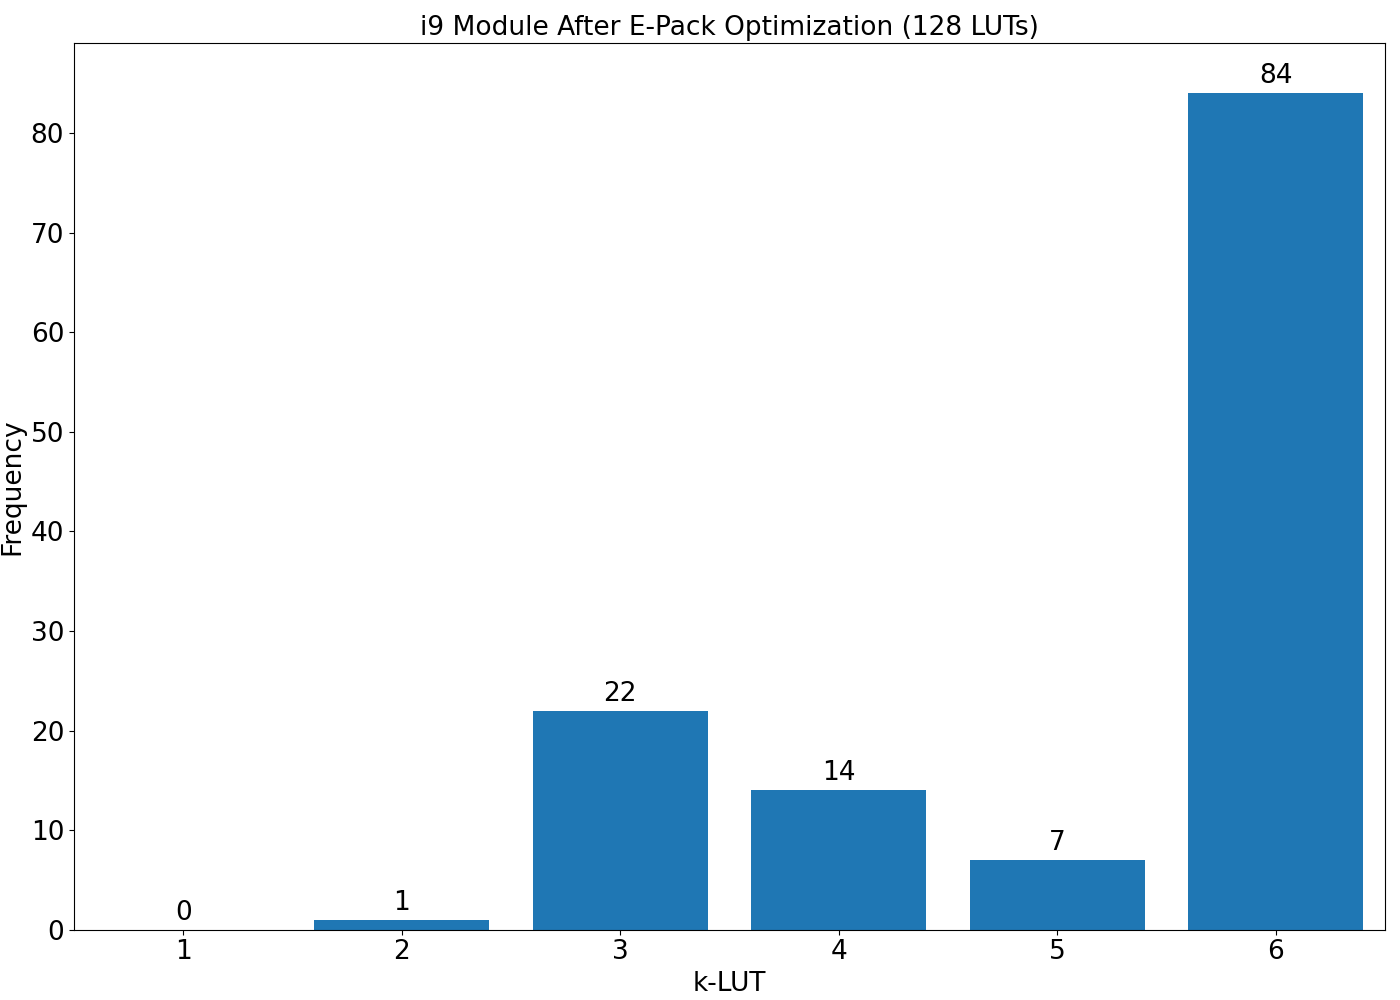
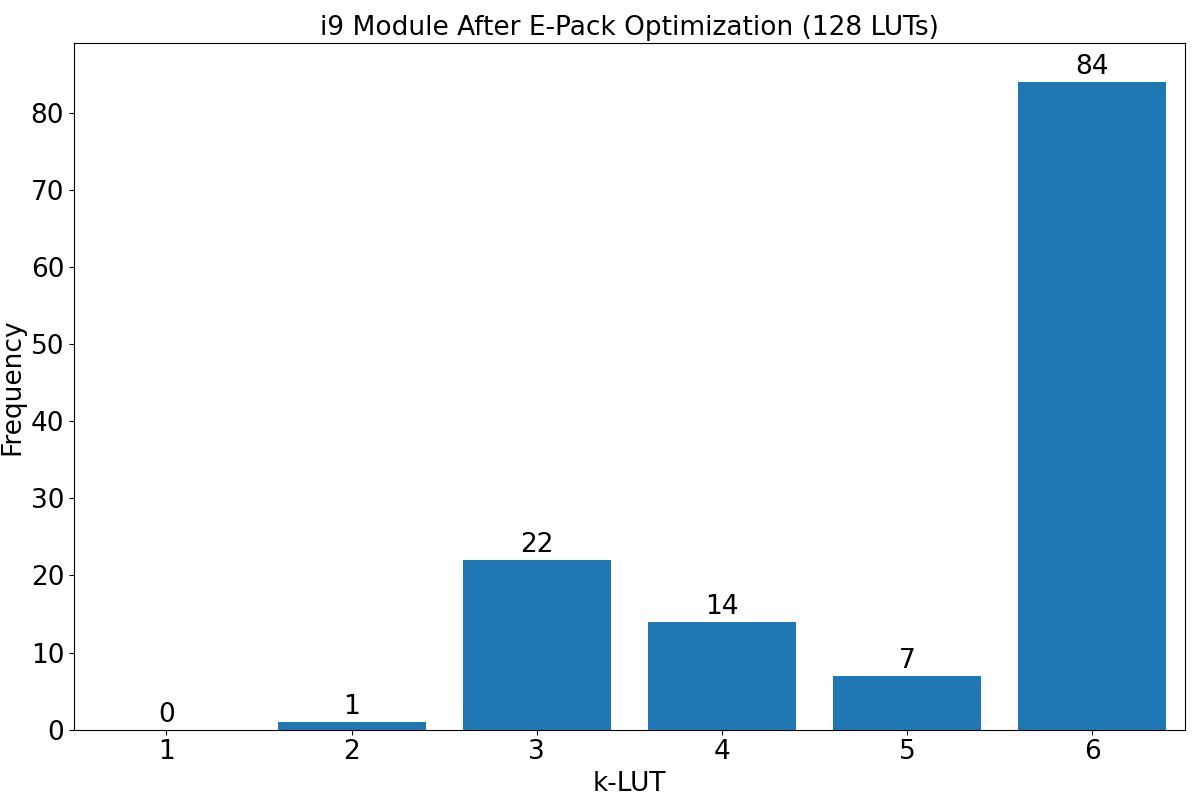
update histogram size

diff --git a/iccad/sections/05-results.tex b/iccad/sections/05-results.tex
@@ -23,15 +23,15 @@ optimizations influence CLB usage and timing closure.
     \begin{subfigure}{0.47\textwidth}
         \centering
         \includegraphics[width=\textwidth]{img/y33.png}
-        \caption{Distribution of 150 LUTs after synthesis of `i9' with Yosys 0.33}\label{fig:histogram:y33}
+        \caption{Distribution of 128 LUTs after running E-Pack on `i9' synthesized with Yosys 0.33.}\label{fig:histogram:y33}
     \end{subfigure}
     \hfill\vspace{4mm}
     \begin{subfigure}{0.47\textwidth}
         \centering
         \includegraphics[width=\textwidth]{img/y47.png}
-        \caption{Distribution of 137 LUTs after synthesis of `i9' with Yosys 0.44}\label{fig:histogram:y44}
+        \caption{Distribution of 137 LUTs after running E-Pack on `i9' synthesized with Yosys 0.47.}\label{fig:histogram:y47}
     \end{subfigure}
-    \caption{Comparison of two initial structures, (a) and (b), and E-Packed structure (c) \todo{regenerate these figs}}\label{fig:histogram}
+    \caption{Comparison of E-Pack's ability to optimize circuits given different starting structures.}\label{fig:histogram}
 \end{figure}
 
 We used an compilation of \nbenchmarks{} combinational benchmarks from three
@@ -56,7 +56,7 @@ in attempts to superoptimize it. Future work will investigate which qualities
 make an RTL synthesis engine work well with our tool versus ones that do not.
 For example, E-Pack optimized Yosys 0.33 netlists
 (Fig.~\ref{fig:histogram:y33}) better than ones provided by Yosys version 0.47
-(Fig.~\ref{fig:histogram:y44}). A future version of \shortname{} should
+(Fig.~\ref{fig:histogram:y47}). A future version of \shortname{} should
 implement new rewrite procedures than can break out of these local minimums on
 their own.
 
